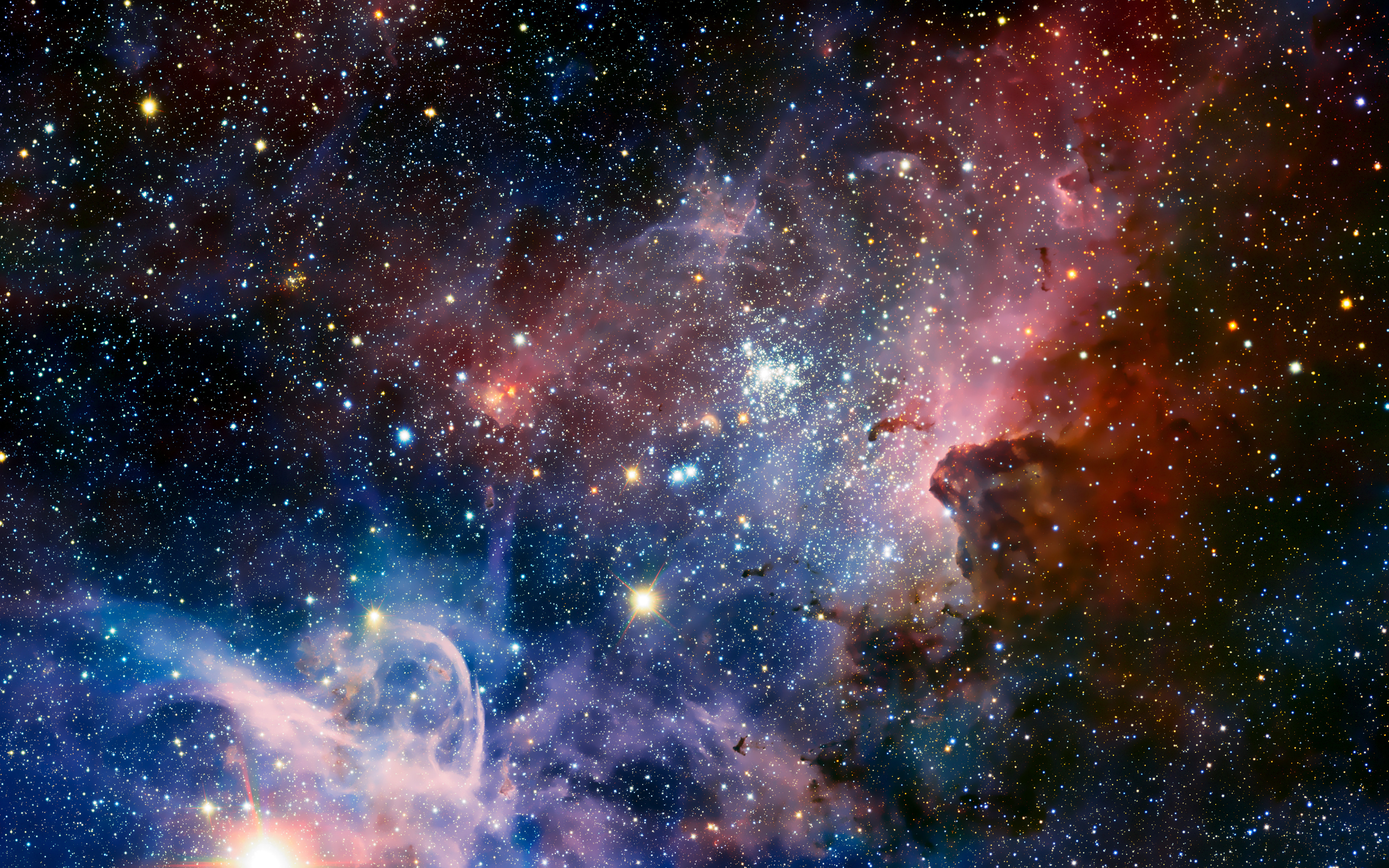
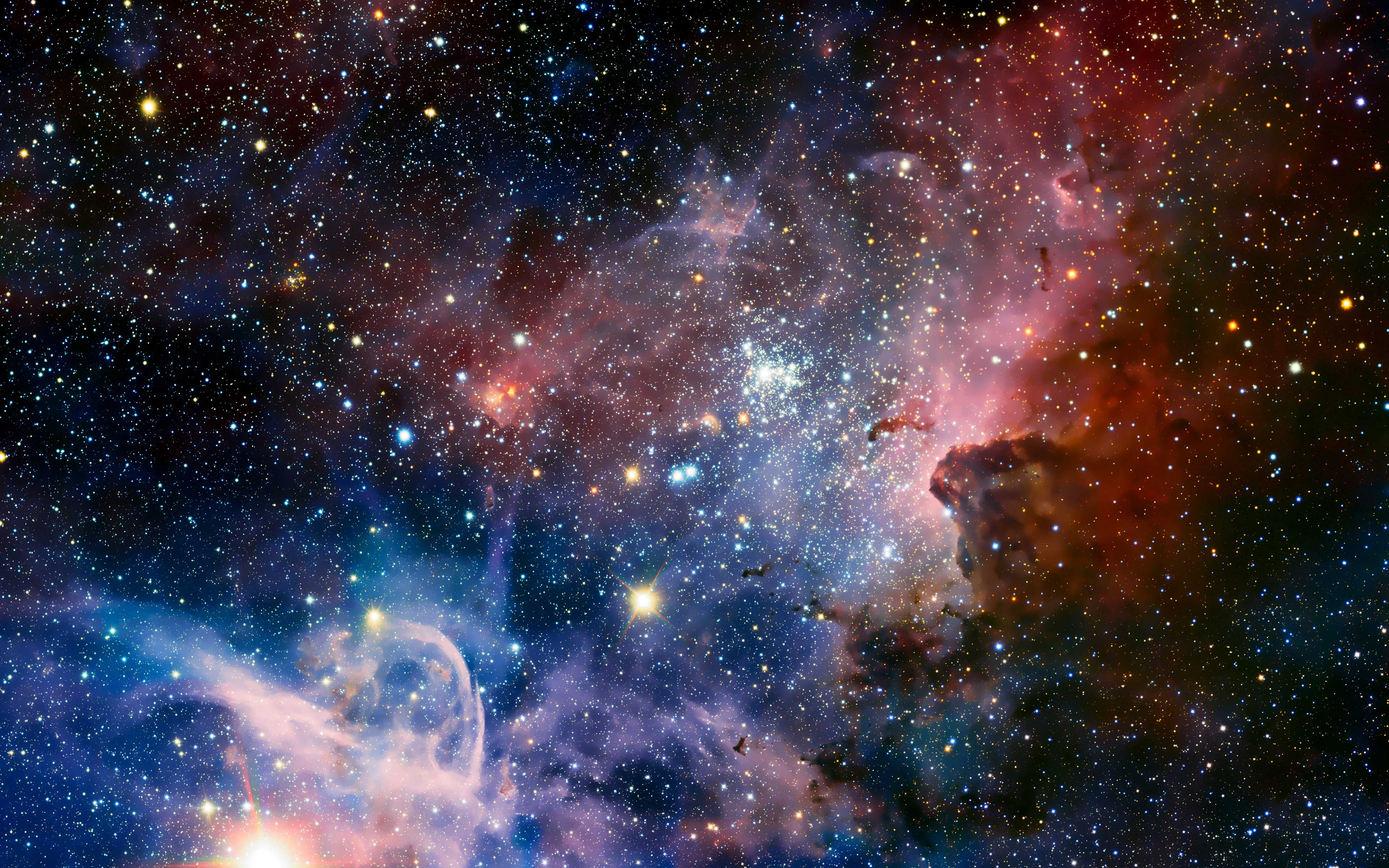
bg change
bg change

Changed region(s): [[0.5, 0.5312, 0.5312, 0.5625]]

diff --git a/index.html b/index.html
@@ -14,7 +14,7 @@
 </head>
 
 <body>
-    <img id="myBackgroundImage" src="background.png">
+    <img id="myBackgroundImage" src="space.jpg">
     <div class="site-wrapper">
 
         <div class="site-wrapper-inner">
